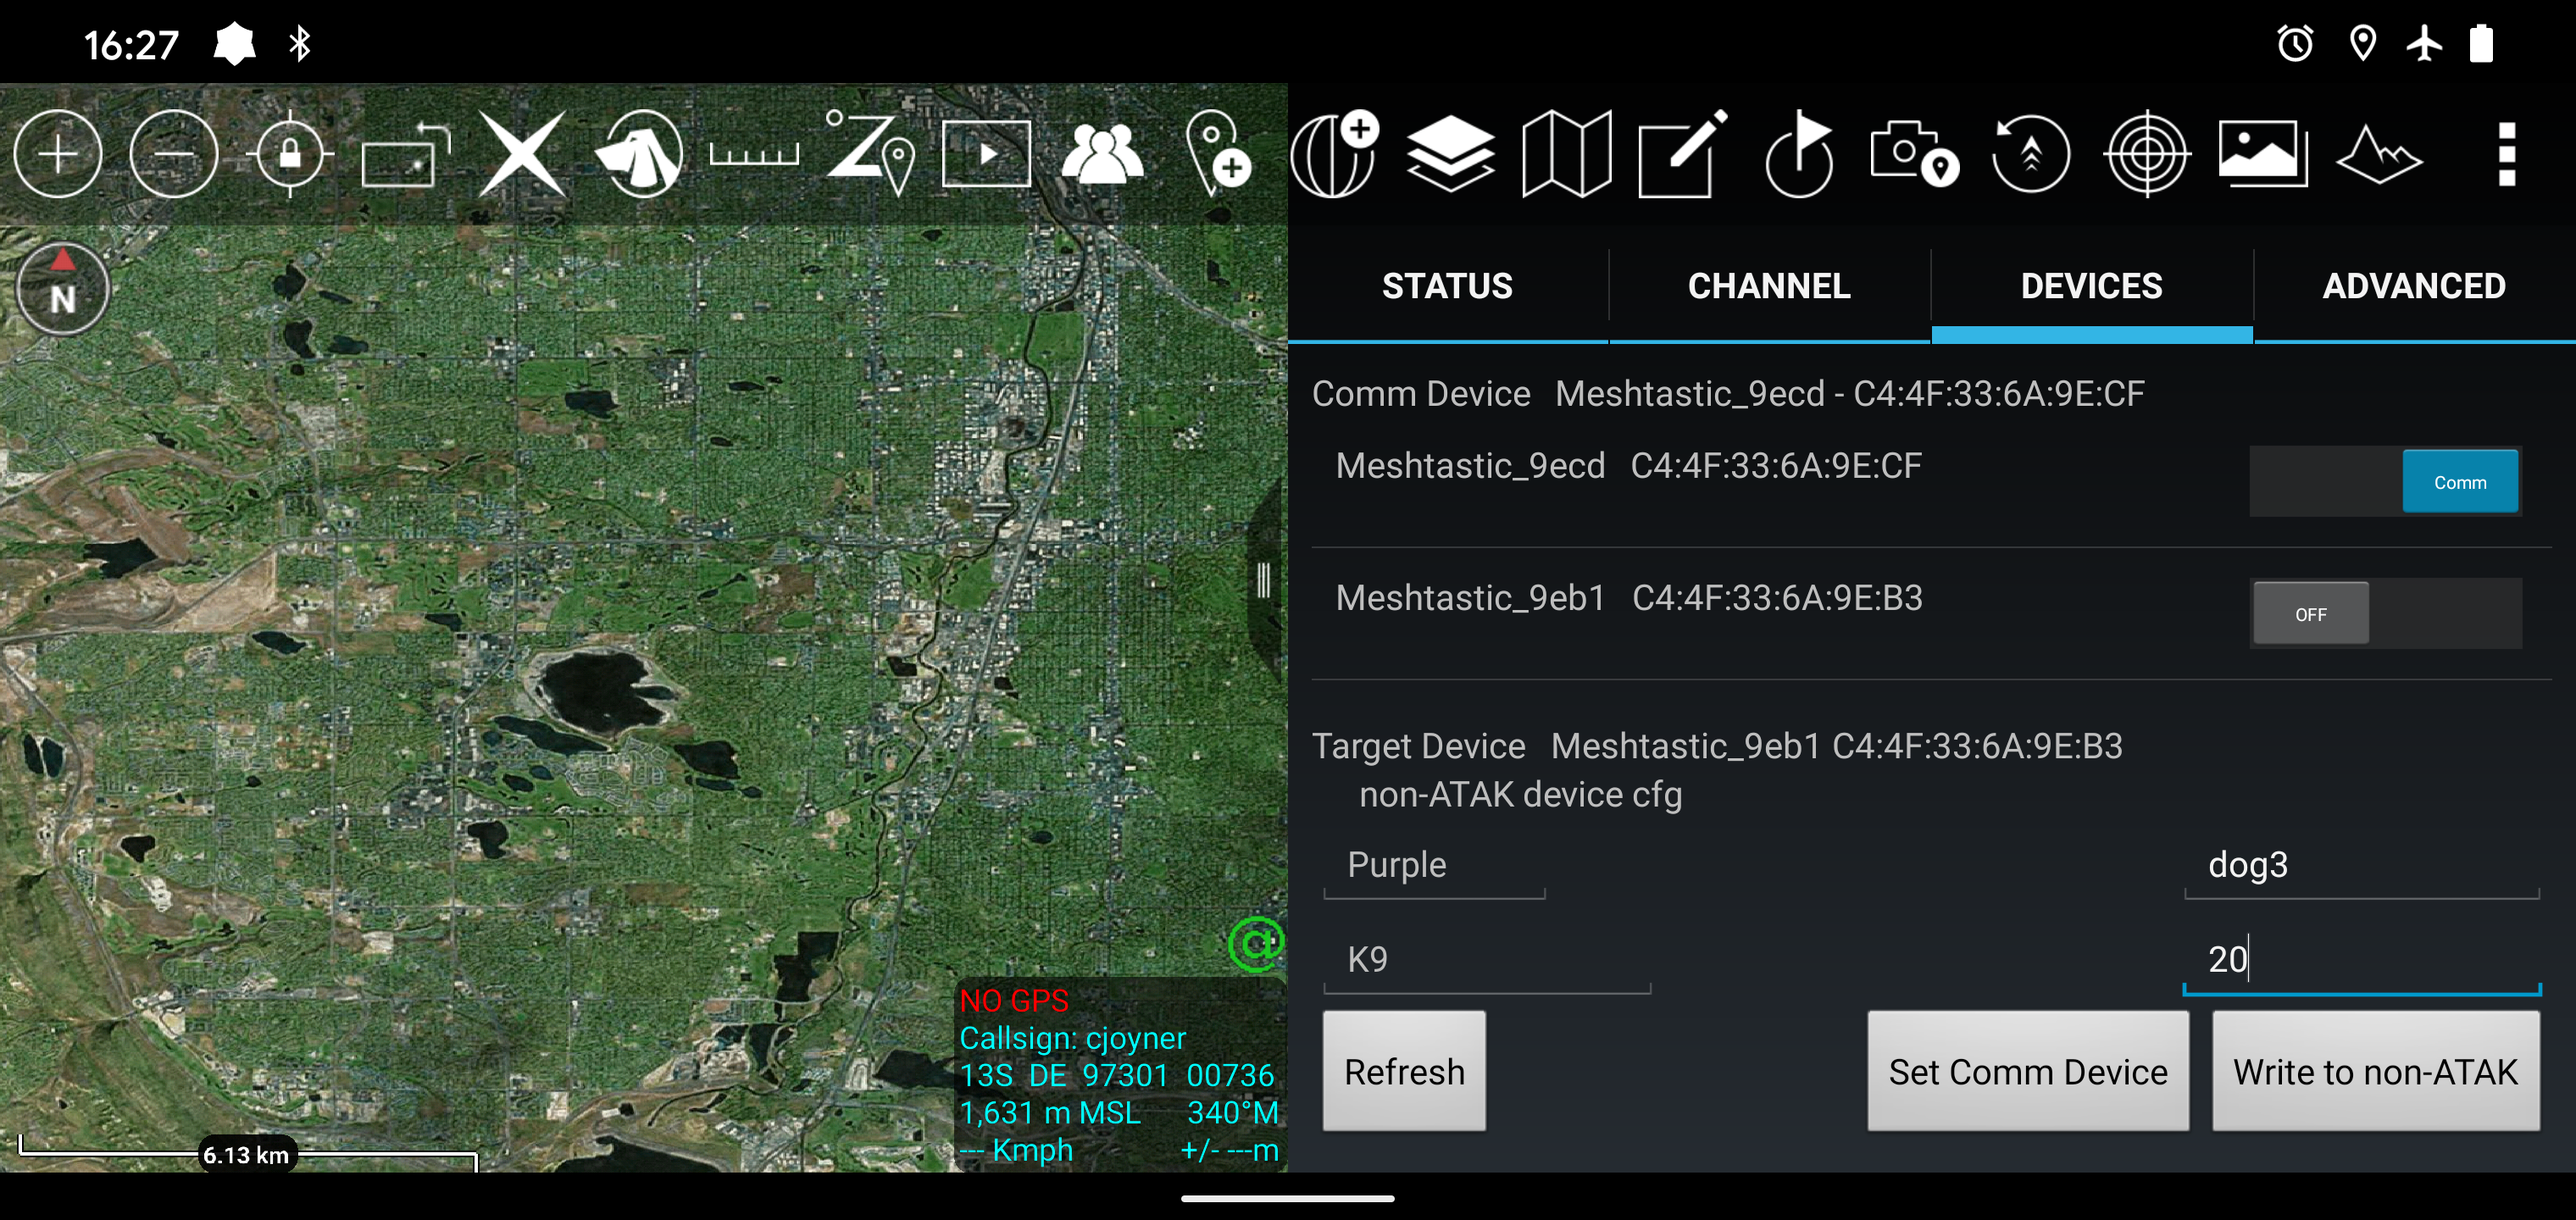
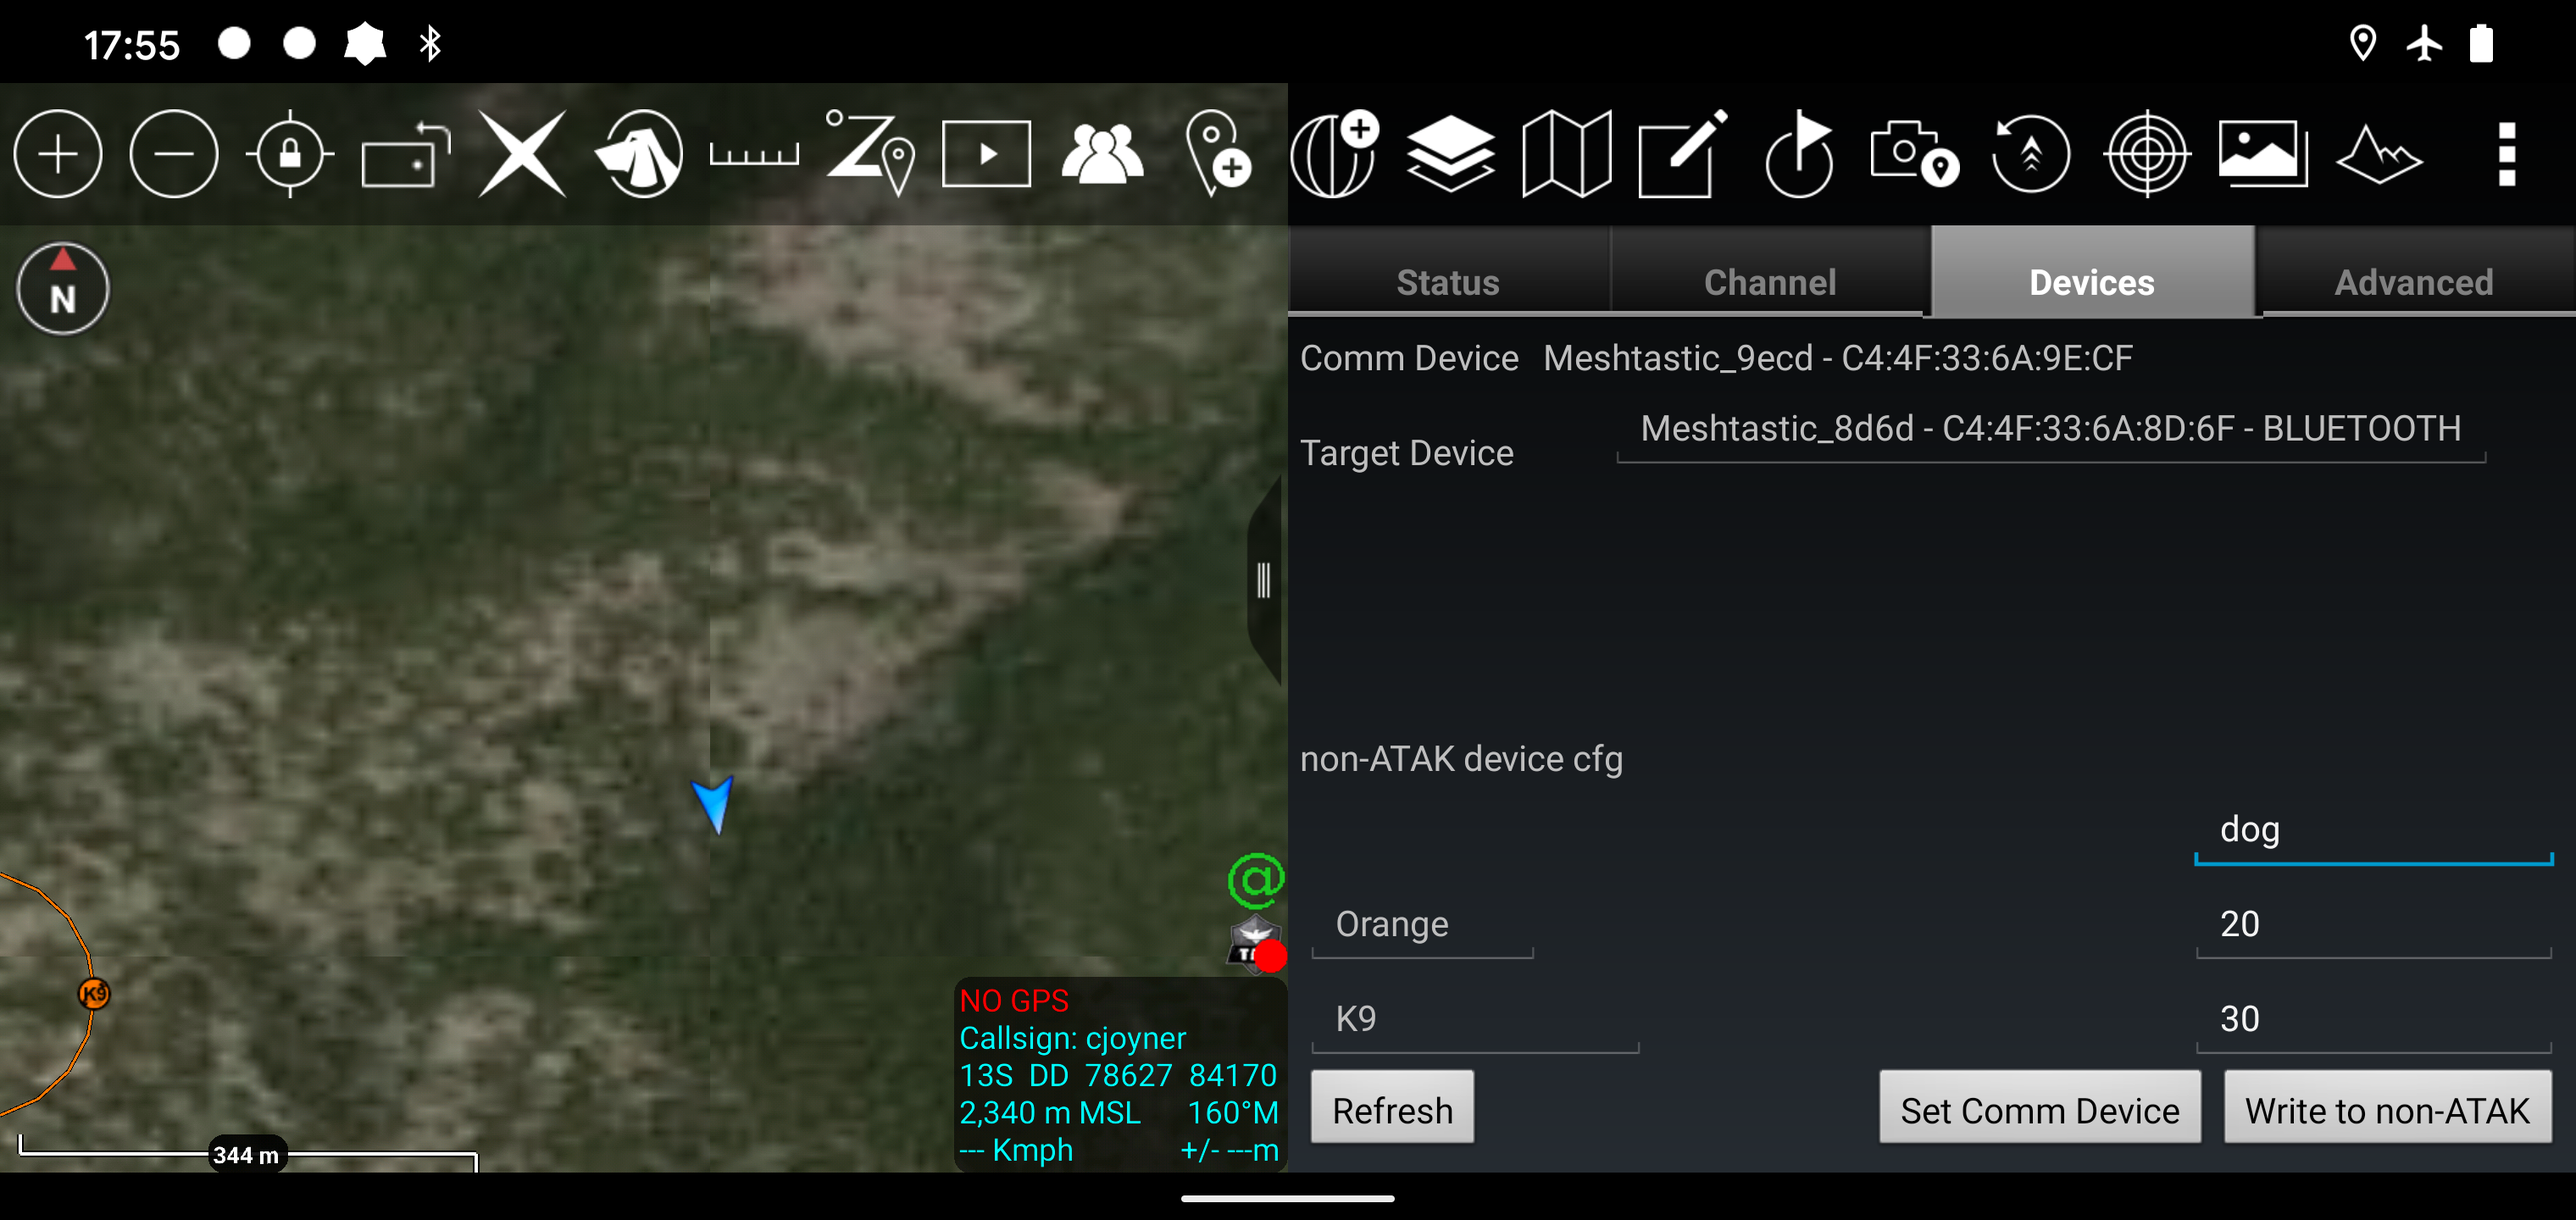
Update docs for open beta release / switch to bintray for libcotshrink (#70)
* Update plugin name in README

* Remove libcotshrink submodule

* Fix libcotshrink package references, bump plugin version

* Move ATAK build path to a variable, update JUnit

* Fix layout bug in status screen

* Update screenshots for new version

* Add permalinks for image resources

diff --git a/app/src/main/java/com/paulmandal/atak/forwarder/plugin/ForwarderLifecycle.java b/app/src/main/java/com/paulmandal/atak/forwarder/plugin/ForwarderLifecycle.java
@@ -33,8 +33,8 @@ import com.paulmandal.atak.forwarder.plugin.ui.tabs.HashHelper;
 import com.paulmandal.atak.forwarder.plugin.ui.tabs.viewmodels.ChannelTabViewModel;
 import com.paulmandal.atak.forwarder.plugin.ui.tabs.viewmodels.DevicesTabViewModel;
 import com.paulmandal.atak.forwarder.plugin.ui.tabs.viewmodels.StatusTabViewModel;
-import com.paulmandal.atak.libcotshrink.api.CotShrinker;
-import com.paulmandal.atak.libcotshrink.api.CotShrinkerFactory;
+import com.paulmandal.atak.libcotshrink.pub.api.CotShrinker;
+import com.paulmandal.atak.libcotshrink.pub.api.CotShrinkerFactory;
 import com.paulmandal.atak.libcotshrink.hackytests.HackyTests;
 
 import java.util.Collection;

diff --git a/app/src/main/java/com/paulmandal/atak/forwarder/handlers/OutboundMessageHandler.java b/app/src/main/java/com/paulmandal/atak/forwarder/handlers/OutboundMessageHandler.java
@@ -11,7 +11,7 @@ import com.paulmandal.atak.forwarder.comm.queue.CommandQueue;
 import com.paulmandal.atak.forwarder.comm.queue.commands.QueuedCommand;
 import com.paulmandal.atak.forwarder.comm.queue.commands.QueuedCommandFactory;
 import com.paulmandal.atak.forwarder.cotutils.MeshtasticCotEvent;
-import com.paulmandal.atak.libcotshrink.api.CotShrinker;
+import com.paulmandal.atak.libcotshrink.pub.api.CotShrinker;
 
 import static com.paulmandal.atak.forwarder.cotutils.CotMessageTypes.TYPE_CHAT;
 import static com.paulmandal.atak.forwarder.cotutils.CotMessageTypes.TYPE_PLI;

diff --git a/app/src/main/java/com/paulmandal/atak/forwarder/plugin/CotSpammer.java b/app/src/main/java/com/paulmandal/atak/forwarder/plugin/CotSpammer.java
@@ -4,7 +4,7 @@ import com.atakmap.coremap.cot.event.CotEvent;
 import com.paulmandal.atak.forwarder.comm.queue.CommandQueue;
 import com.paulmandal.atak.forwarder.comm.queue.commands.QueuedCommand;
 import com.paulmandal.atak.forwarder.comm.queue.commands.QueuedCommandFactory;
-import com.paulmandal.atak.libcotshrink.api.CotShrinker;
+import com.paulmandal.atak.libcotshrink.pub.api.CotShrinker;
 
 public class CotSpammer {
     public static void spamCots(CommandQueue commandQueue, QueuedCommandFactory queuedCommandFactory, CotShrinker cotShrinker) {

diff --git a/app/src/main/java/com/paulmandal/atak/forwarder/handlers/InboundMessageHandler.java b/app/src/main/java/com/paulmandal/atak/forwarder/handlers/InboundMessageHandler.java
@@ -7,7 +7,7 @@ import com.atakmap.coremap.cot.event.CotEvent;
 import com.paulmandal.atak.forwarder.Config;
 import com.paulmandal.atak.forwarder.comm.commhardware.CommHardware;
 import com.paulmandal.atak.forwarder.cotutils.MeshtasticCotEvent;
-import com.paulmandal.atak.libcotshrink.api.CotShrinker;
+import com.paulmandal.atak.libcotshrink.pub.api.CotShrinker;
 
 public class InboundMessageHandler implements CommHardware.MessageListener {
     private static final String TAG = Config.DEBUG_TAG_PREFIX + InboundMessageHandler.class.getSimpleName();

diff --git a/app/src/main/java/com/paulmandal/atak/forwarder/factories/MessageHandlerFactory.java b/app/src/main/java/com/paulmandal/atak/forwarder/factories/MessageHandlerFactory.java
@@ -8,7 +8,7 @@ import com.paulmandal.atak.forwarder.comm.queue.CommandQueue;
 import com.paulmandal.atak.forwarder.comm.queue.commands.QueuedCommandFactory;
 import com.paulmandal.atak.forwarder.handlers.InboundMessageHandler;
 import com.paulmandal.atak.forwarder.handlers.OutboundMessageHandler;
-import com.paulmandal.atak.libcotshrink.api.CotShrinker;
+import com.paulmandal.atak.libcotshrink.pub.api.CotShrinker;
 
 public class MessageHandlerFactory {
     public static InboundMessageHandler getInboundMessageHandler(CommHardware commHardware,

diff --git a/README.md b/README.md
@@ -1,24 +1,24 @@
-# ATAK Packet Forwarder 
+# ATAK Forwarder 
 
 An ATAK plugin for forwarding CoT messages via a hardware layer. Currently supports [Meshtastic](https://www.meshtastic.org) devices.
 
-![Plugin Disconnected Indicator](https://github.com/paulmandal/atak-forwarder/raw/main/images/plugin-disconnected-indicator.png)
+![Plugin Disconnected Indicator](https://github.com/paulmandal/atak-forwarder/raw/0.9.0/images/plugin-disconnected-indicator.png)
 <br>
-![Status View](https://github.com/paulmandal/atak-forwarder/raw/main/images/status-view.png)
+![Status View](https://github.com/paulmandal/atak-forwarder/raw/0.9.0/images/status-view.png)
 <br>
-![Channel Management](https://github.com/paulmandal/atak-forwarder/raw/main/images/channel-management.png)
+![Channel Management](https://github.com/paulmandal/atak-forwarder/raw/0.9.0/images/channel-management.png)
 <br>
-![QR Configuration](https://github.com/paulmandal/atak-forwarder/raw/main/images/qr-configuration.png)
+![QR Configuration](https://github.com/paulmandal/atak-forwarder/raw/0.9.0/images/qr-configuration.png)
 <br>
-![Integrated Direct Messaging](https://github.com/paulmandal/atak-forwarder/raw/main/images/integrated-direct-messaging.png)
+![Integrated Direct Messaging](https://github.com/paulmandal/atak-forwarder/raw/0.9.0/images/integrated-direct-messaging.png)
 <br>
-![Transmit Map Markers](https://github.com/paulmandal/atak-forwarder/raw/main/images/transmit-map-markers.png)
+![Transmit Map Markers](https://github.com/paulmandal/atak-forwarder/raw/0.9.0/images/transmit-map-markers.png)
 <br>
 Supports Meshtastic devices without an ATAK EUD attached
-![Support non-ATAK Devices](https://github.com/paulmandal/atak-forwarder/raw/main/images/non-atak-devices-configuration.png)
-![Support non-ATAK Devices](https://github.com/paulmandal/atak-forwarder/raw/main/images/non-atak-devices-map-marker.png)
+![Support non-ATAK Devices](https://github.com/paulmandal/atak-forwarder/raw/0.9.0/images/non-atak-devices-configuration.png)
+![Support non-ATAK Devices](https://github.com/paulmandal/atak-forwarder/raw/0.9.0/images/non-atak-devices-map-marker.png)
 <br>
-![Example Usage](https://github.com/paulmandal/atak-forwarder/raw/main/images/example-usage.png)
+![Example Usage](https://github.com/paulmandal/atak-forwarder/raw/0.9.0/images/example-usage.png)
 
 # Features
 
@@ -131,8 +131,8 @@ The ATAK Forwarder supports configuring Meshtastic devices that have a GPS but n
 
 # Architecture Diagram
 
-![Architecture Diagram](https://github.com/paulmandal/atak-forwarder/raw/main/images/arch-diagram.png)
-![Architecture Diagram Non-ATAK Devicess](https://github.com/paulmandal/atak-forwarder/raw/main/images/arch-diagram-non-atak-devices.png)
+![Architecture Diagram](https://github.com/paulmandal/atak-forwarder/raw/0.9.0/images/arch-diagram.png)
+![Architecture Diagram Non-ATAK Devicess](https://github.com/paulmandal/atak-forwarder/raw/0.9.0/images/arch-diagram-non-atak-devices.png)
 
 # Notes on Message Handling
 
